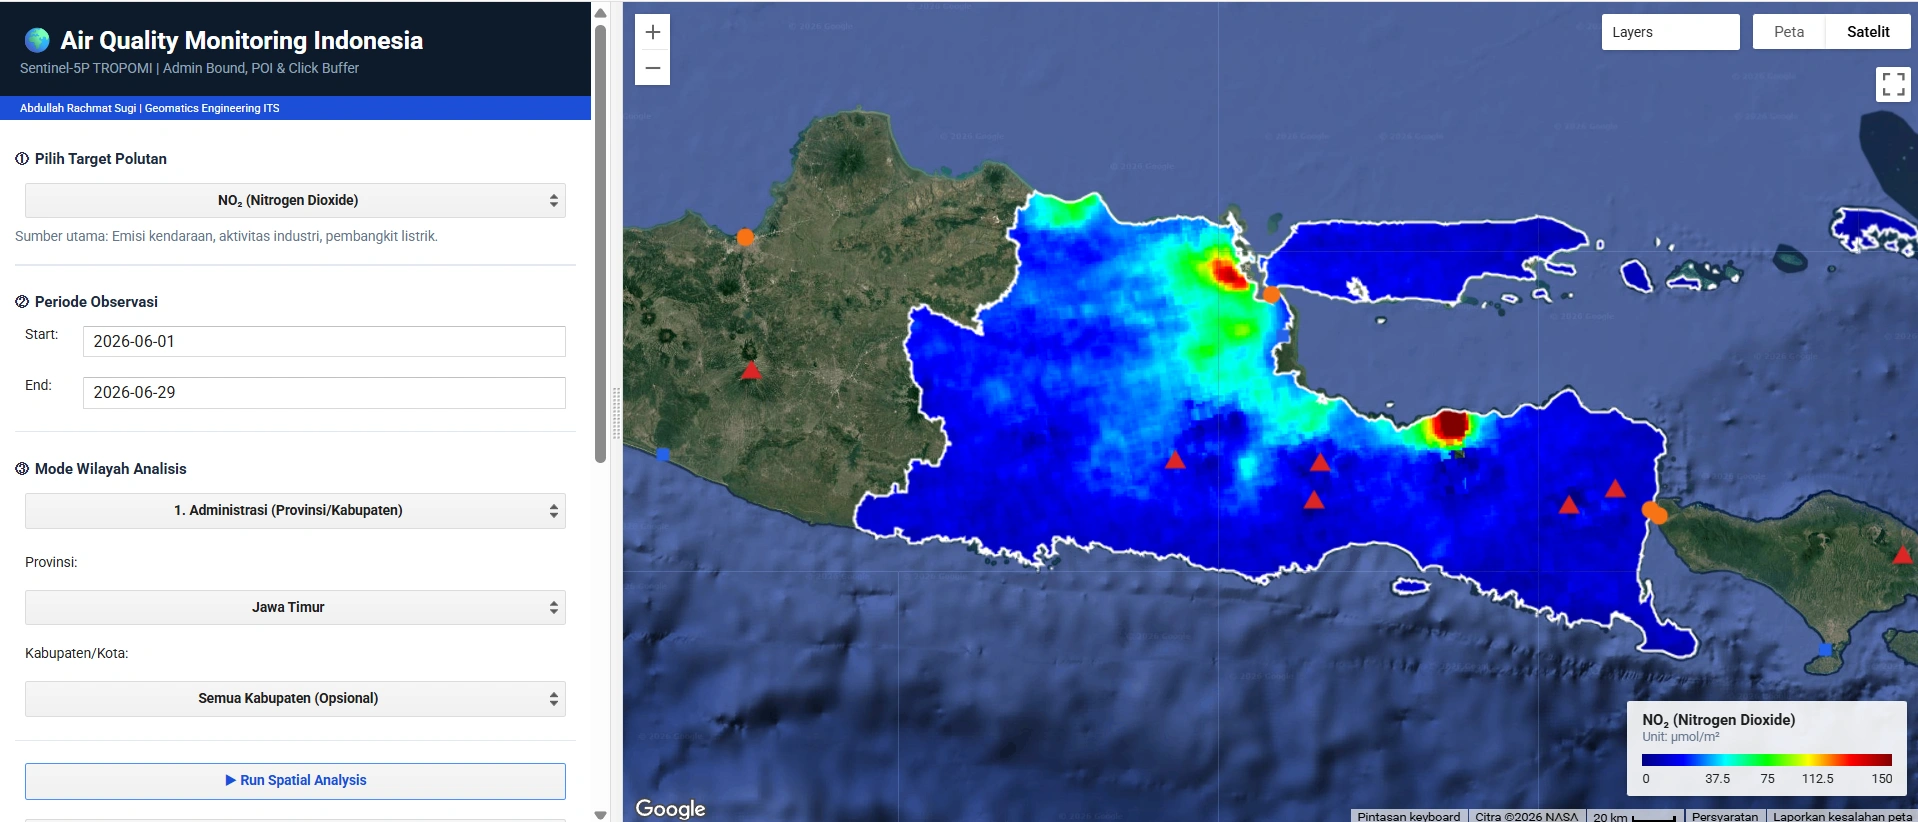
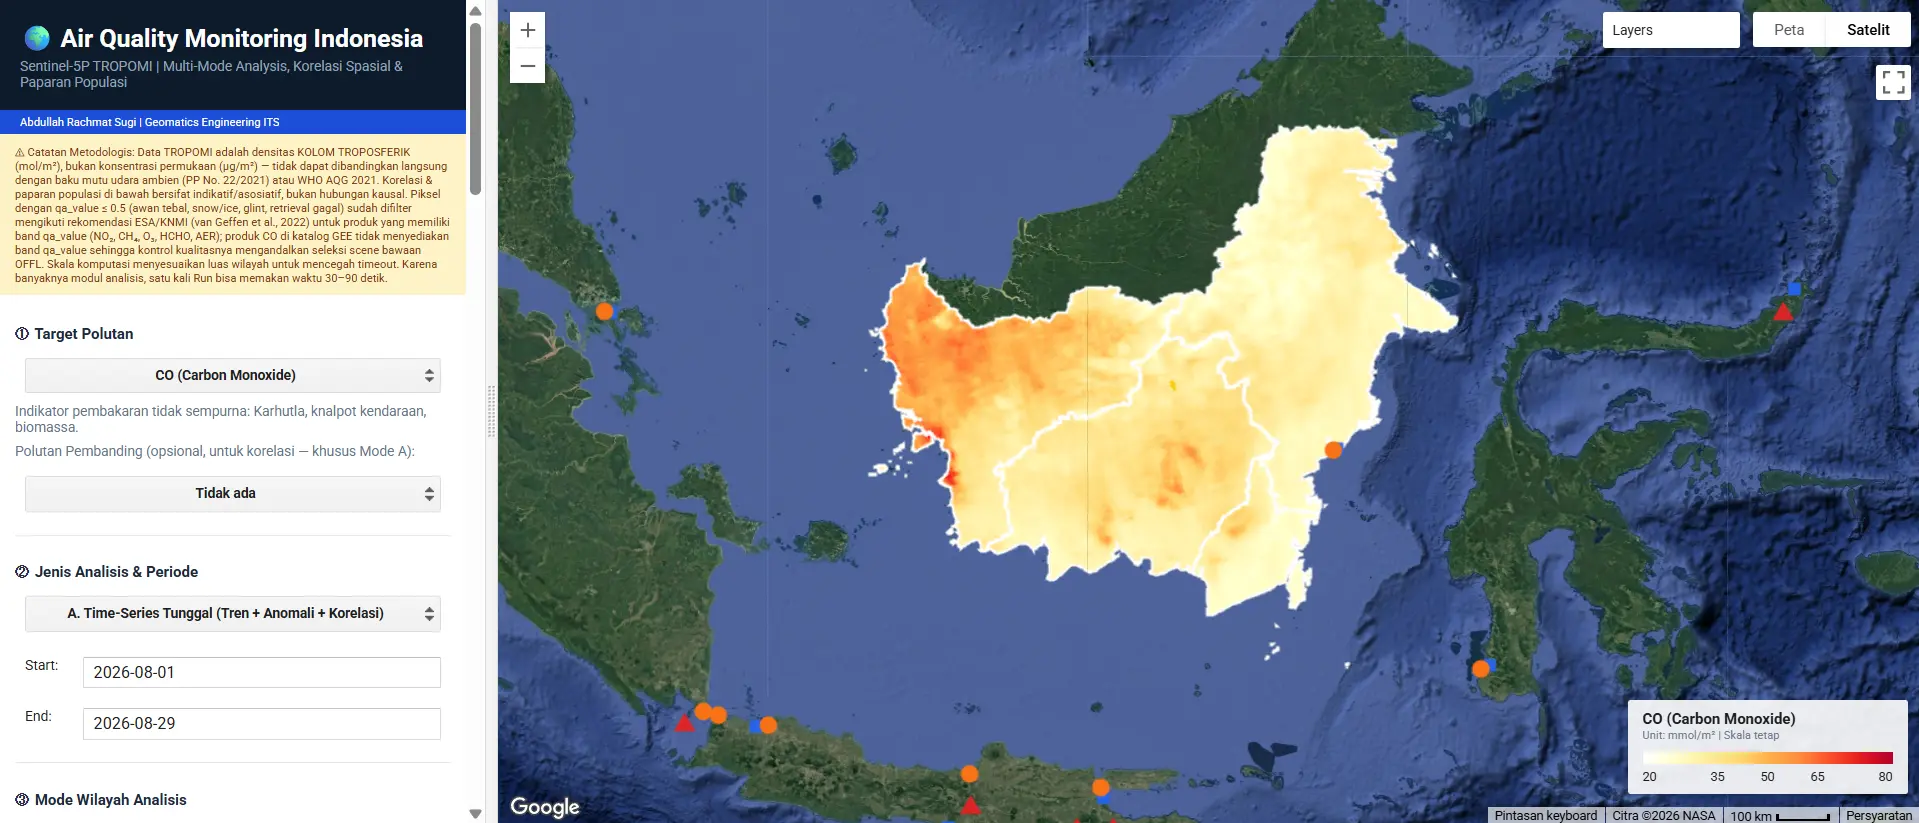
Menambahkan file HTML, gambar, dan dokumen untuk portofolio

diff --git a/index.html b/index.html
@@ -1644,6 +1644,7 @@
       </p>
     </div>
     <div class="gee-grid">
+      
       <div class="gee-card animate-in">
         <div class="gee-preview"><img src="images/air-quality.webp" alt="Air Quality Monitoring App" loading="lazy" onerror="this.style.display='none'"><div class="gee-preview-icon">🌫</div></div>
         <div class="gee-body">
@@ -1656,6 +1657,7 @@
           <a href="https://rachmatsugi09.users.earthengine.app/view/airqualitymonitoring" target="_blank" rel="noopener" class="btn-gee">Launch App →</a>
         </div>
       </div>
+      
       <div class="gee-card animate-in">
         <div class="gee-preview"><img src="images/classification.webp" alt="Classification App" loading="lazy" onerror="this.style.display='none'"><div class="gee-preview-icon">🛰</div></div>
         <div class="gee-body">
@@ -1668,6 +1670,7 @@
           <a href="https://rachmatsugi09.users.earthengine.app/view/classification" target="_blank" rel="noopener" class="btn-gee">Launch App →</a>
         </div>
       </div>
+      
       <div class="gee-card animate-in">
         <div class="gee-preview"><img src="images/hazard-disaster.webp" alt="Hazard Disaster App" loading="lazy" onerror="this.style.display='none'"><div class="gee-preview-icon">⚠</div></div>
         <div class="gee-body">
@@ -1680,6 +1683,7 @@
           <a href="https://rachmatsugi09.users.earthengine.app/view/hazard-disaster" target="_blank" rel="noopener" class="btn-gee">Launch App →</a>
         </div>
       </div>
+      
       <div class="gee-card animate-in">
         <div class="gee-preview"><img src="images/spatial-bio-atmospheric.webp" alt="Spatial Bio Atmospheric App" loading="lazy" onerror="this.style.display='none'"><div class="gee-preview-icon">🌿</div></div>
         <div class="gee-body">
@@ -1692,6 +1696,7 @@
           <a href="https://rachmatsugi09.users.earthengine.app/view/spatialbioatmospheric" target="_blank" rel="noopener" class="btn-gee">Launch App →</a>
         </div>
       </div>
+      
       <div class="gee-card animate-in">
         <div class="gee-preview"><img src="images/unified-weather.webp" alt="Unified Weather App" loading="lazy" onerror="this.style.display='none'"><div class="gee-preview-icon">🌦</div></div>
         <div class="gee-body">
@@ -1704,6 +1709,27 @@
           <a href="https://rachmatsugi09.users.earthengine.app/view/unifiedweather" target="_blank" rel="noopener" class="btn-gee">Launch App →</a>
         </div>
       </div>
+
+      <div class="gee-card animate-in">
+        <div class="gee-preview"><img src="images/water.webp" alt="Water Analysis App" loading="lazy" onerror="this.style.display='none'"><div class="gee-preview-icon">🌊</div></div>
+        <div class="gee-body">
+          <div class="gee-card-header">
+            <div class="gee-icon">🌊</div>
+            <div><h3>Water Analysis</h3><div class="gee-card-id">users/rachmatsugi09/water</div></div>
+          </div>
+          <p>
+            <span class="t-id">Sistem analisis dinamika spasial dan kualitas badan air. Dilengkapi deteksi luasan otomatis (Otsu thresholding), kalibrasi in-situ untuk proksi kualitas air (WQI, Kekeruhan, Klorofil), dan analisis tren perubahan.</span>
+            <span class="t-en">Integrated spatial dynamics and water quality analysis system. Features automated extent detection (Otsu thresholding), in-situ calibration for water quality proxies (WQI, Turbidity, Chlorophyll), and change trend analysis.</span>
+          </p>
+          <div class="gee-tags">
+            <span class="gee-tag">Water Quality</span>
+            <span class="gee-tag">Otsu Threshold</span>
+            <span class="gee-tag">Time-series</span>
+          </div>
+          <a href="https://rachmatsugi09.users.earthengine.app/view/water" target="_blank" rel="noopener" class="btn-gee">Launch App →</a>
+        </div>
+      </div>
+
     </div>
   </div>
 </section>
